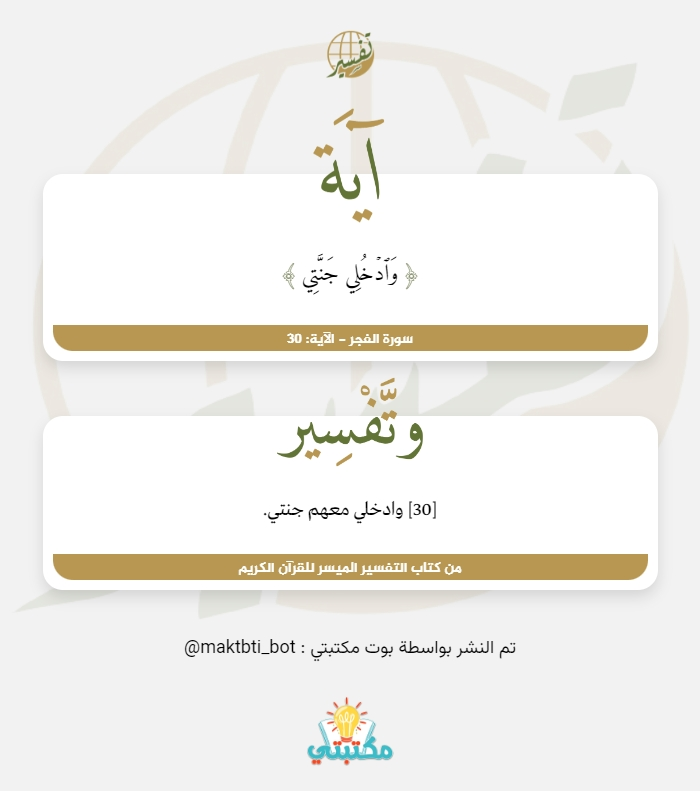
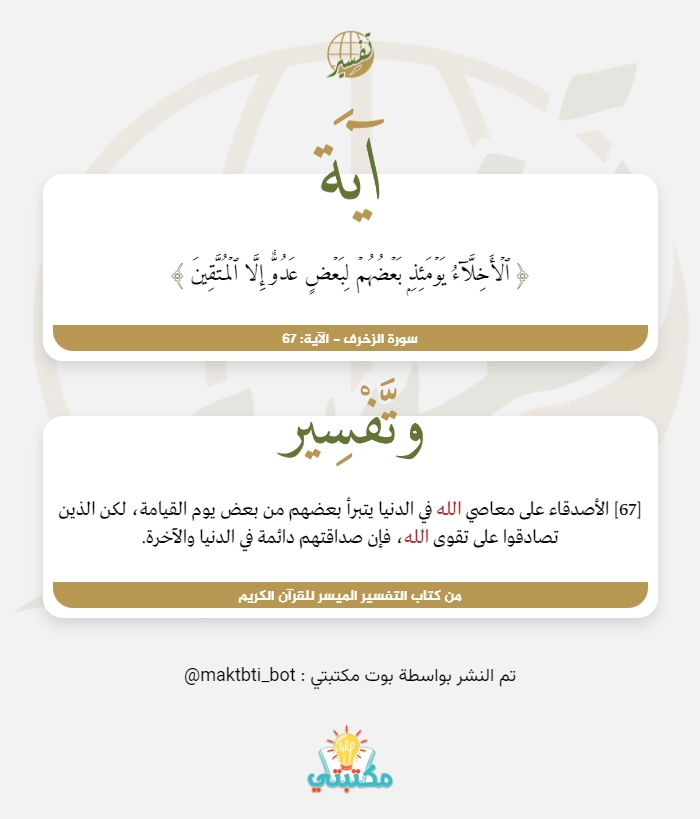
Update scheduling_messages.js

diff --git a/module/scheduling_messages.js b/module/scheduling_messages.js
@@ -22,21 +22,18 @@ export default async function scheduling_messages(client) {
 
         // أوقات تنفيذ الأحداث
         const time_Hijri = ["12:02 AM"];
-        const time_fatwas = ["3:00 AM"];
-        const time_video = ["9:00 AM"];
-        const time_photo = ["12:02 PM","6:00 AM"];
+        const time_video = ["3:00 AM","9:00 AM"];
+        const time_photo = ["6:00 AM","12:02 PM"];
         const time_quran = ["3:00 PM"];
-        const time_names_off_allah = ["6:00 PM"];
-        const time_tafseer = ["9:00 PM"];
+        const time_tafseer = ["6:00 PM"];
+        const time_fatwas = ["3:00 AM"]; //stopped
+        const time_names_off_allah = ["6:00 PM"]; //stopped
         
         // الحصول على جميع المستخدمين
         const GetAllUsers = await get_database_telegram("all");
 
         // تنفيذ الأحداث المتعلقة بتلاوة القرآن الكريم
         if (time_quran.includes(time)) {
-            console.log("-------------------------------")
-            console.log("Done sent time_quran 3:00 PM");
-            console.log("-------------------------------")
             // قراءة ملف JSON يحتوي على تفاصيل تلاوات القرآن
             const mp3quran = fs.readJsonSync(path.join(__dirname, './files/json/mp3quran.json'));
             for (const item of GetAllUsers) {
@@ -63,12 +60,12 @@ export default async function scheduling_messages(client) {
                     }
                 }
             }
+            console.log("-------------------------------")
+            console.log("Done sent time_quran 3:00 PM");
+            console.log("-------------------------------")
         }
         // تنفيذ الأحداث المتعلقة بمشاركة الصور
         else if (time_photo.includes(time)) {
-            console.log("-------------------------------")
-            console.log("Done sent time_photo 12:02 PM");
-            console.log("-------------------------------")
             const photo = fs.readJsonSync(path.join(__dirname, './files/json/photo.json'));
             for (const item of GetAllUsers) {
                 if (item?.evenPost && item?.permissions?.canSendMessages || item?.type === "private") {
@@ -80,12 +77,12 @@ export default async function scheduling_messages(client) {
                     }
                 }
             }
+            console.log("-------------------------------")
+            console.log("Done sent time_photo 6:00 AM, 12:02 PM");
+            console.log("-------------------------------")
         }
         // تنفيذ الأحداث المتعلقة بمشاركة مقاطع الفيديو
         else if (time_video.includes(time)) {
-            console.log("-------------------------------")
-            console.log("Done sent time_video 9:00 AM");
-            console.log("-------------------------------")
             // قراءة ملف JSON يحتوي على تفاصيل مقاطع الفيديو
             const video = fs.readJsonSync(path.join(__dirname, './files/json/video.json'));
             for (const item of GetAllUsers) {
@@ -98,12 +95,12 @@ export default async function scheduling_messages(client) {
                     }
                 }
             }
+            console.log("-------------------------------")
+            console.log("Done sent time_video 9:00 AM");
+            console.log("-------------------------------")
         }
         // تنفيذ الأحداث المتعلقة بمشاركة التفسير الميسر
         else if (time_tafseer.includes(time)) {
-            console.log("-------------------------------")
-            console.log("Done sent time_tafseer 9:00 PM");
-            console.log("-------------------------------")
             // الحصول على تفاصيل التفسير الميسر
             const TFSMouaser = await tafseerMouaser(path.join(__dirname, './tafseerMouaser.jpeg')).catch(e => console.log(e));
             for (const item of GetAllUsers) {
@@ -121,12 +118,12 @@ export default async function scheduling_messages(client) {
                     }
                 }
             }
+            console.log("-------------------------------")
+            console.log("Done sent time_tafseer 9:00 PM");
+            console.log("-------------------------------")
         }
         // تنفيذ الأحداث المتعلقة بمشاركة التقويم الهجري
         else if (time_Hijri.includes(time)) {
-            console.log("-------------------------------")
-            console.log("Done sent time_Hijri 12:02 AM");
-            console.log("-------------------------------")
             const Hijri_ = await Hijri(path.join(__dirname, './Hijri.jpeg')).catch(e => console.log(e));
             for (const item of GetAllUsers) {
                 if (item?.evenPost && item?.permissions?.canSendMessages || item?.type === "private") {
@@ -146,9 +143,15 @@ export default async function scheduling_messages(client) {
                     }
                 }
             }
+            console.log("-------------------------------")
+            console.log("Done sent time_Hijri 12:02 AM");
+            console.log("-------------------------------")
         }
         // تنفيذ الأحداث المتعلقة بمشاركة اسماء الله الحسنى
         else if (time_names_off_allah.includes(time) && false) {
+            console.log("-------------------------------")
+            console.log("Done sent time_names_off_allah 6:00 PM");
+            console.log("-------------------------------")
             // الحصول على تفاصيل التفسير الميسر
             const Names_Of_Allah = fs.readJsonSync(path.join(__dirname, './files/json/Names_Of_Allah.json'));
             const puppeteerConfig = {
@@ -308,6 +311,9 @@ export default async function scheduling_messages(client) {
         }
         // تنفيذ الأحداث المتعلقة بمشاركة فتاوى ابن باز رحمه الله
         else if (time_fatwas.includes(time) && false) {
+            console.log("-------------------------------")
+            console.log("Done sent time_fatwas 3:00 AM");
+            console.log("-------------------------------")
             for (const item of GetAllUsers) {
                 if (item?.evenPost && item?.permissions?.canSendMessages && item?.type !== "private") {
                     const nameUser = item?.username ? `@${item?.username}` : item?.name;

diff --git a/module/tafseerMouaser/index.html b/module/tafseerMouaser/index.html
@@ -22,14 +22,14 @@
         <img src="./icon/ayah.png" id="ayah_img">
         <p id="ayah_text">
 
-            <span style="color: #7f8862;">﴿</span> وَٱدۡخُلِي جَنَّتِي <span style="color: #7f8862;">﴾</span>
+            <span style="color: #7f8862;">﴿</span> ٱلۡأَخِلَّآءُ يَوۡمَئِذِۭ بَعۡضُهُمۡ لِبَعۡضٍ عَدُوٌّ إِلَّا ٱلۡمُتَّقِينَ <span style="color: #7f8862;">﴾</span>
 
         </p>
 
         <div id="ayah_fot">
 
             <p>
-                سورة الفجر - الآية: 30
+                سورة الزخرف - الآية: 67
             </p>
         </div>
     </div>
@@ -38,7 +38,7 @@
         <img src="./icon/tafseer.png" id="tfs_img">
         <p id="tfs_text">
 
-            [30]  وادخلي معهم جنتي.
+            [67] الأصدقاء على معاصي <span style="color: #b62b2b;">الله</span> في الدنيا يتبرأ بعضهم من بعض يوم القيامة، لكن الذين تصادقوا على تقوى <span style="color: #b62b2b;">الله</span>، فإن صداقتهم دائمة في الدنيا والآخرة.
 
         </p>
 

diff --git a/module/Hijri/index.html b/module/Hijri/index.html
@@ -37,11 +37,11 @@
 
     <div id="content">
 
-        <p id="title">سورة الإنفطار | مَقْصِدُها العَامُّ</p>
+        <p id="title">سورة الأنعام | فَضْــــــلُها</p>
 
         <div id="text">
 
-            وَصْفُ أَحْدَاثِ يَومِ الْقِيَامَةِ، وَتَذْكِيرُ الإِنْسَانِ بِالنِّعَمِ
+            هِيَ مِنَ السَّبعِ، قَالَ <span style="color: #b62b2b;">ﷺ</span>: <span style="color: #464970;">«مَن أخَذَ السَّبعَ الْأُوَلَ منَ القُرآنِ فَهُوَ حَبْرٌ»</span> أَيْ: عَالِم. <span style="color: #797979;">(حَدِيثٌ حَسَنٌ، رَوَاهُ أَحمَد)</span>
 
         </div>
 
